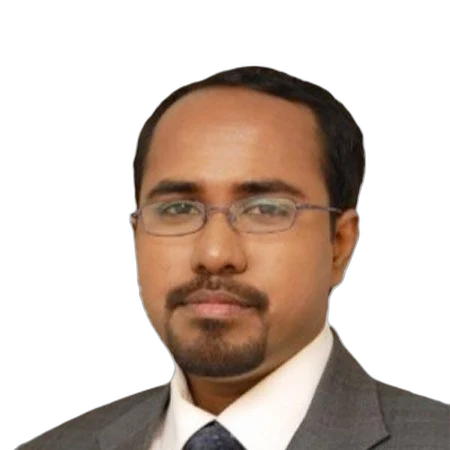
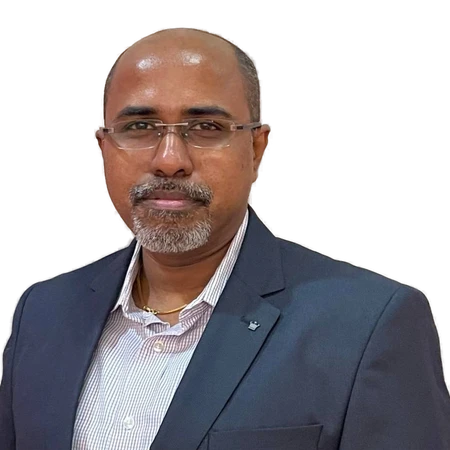
New Reena and Muthu photos; larger, captioned trust badges in the hero
- About: Reena Prabhu and Muthukumaran Elangovan photos replaced, background
  removed and framed to match the other team cards
- Homepage hero 'Enabling Customer Trust': each certificate on its own
  frosted tile with a readable caption (ISO 27001, SOC 2 Type II, HIPAA),
  logos about 40% larger, filling the row; one per row on phones

Claude-Session: https://claude.ai/code/session_01VqiUY1QJkPFqydpKuakwnM

diff --git a/index.html b/index.html
@@ -32,7 +32,7 @@
 <link href="assets/favicon-192.png" rel="icon" type="image/png" sizes="192x192"/>
 <link href="apple-touch-icon.png" rel="apple-touch-icon"/>
 <link href="https://fonts.googleapis.com" rel="preconnect"/><link crossorigin="" href="https://fonts.gstatic.com" rel="preconnect"/>
-<link href="style.css?v=bbcd7076" rel="stylesheet"/>
+<link href="style.css?v=f7a7e5c9" rel="stylesheet"/>
 <script defer="" src="vendor/gsap.min.js"></script>
 <script defer="" src="vendor/ScrollTrigger.min.js"></script>
 <script defer="" src="vendor/lenis.min.js"></script>
@@ -69,7 +69,7 @@
 <div aria-label="Exterprise services" aria-roledescription="carousel" class="lx-row lx-slides"><div aria-label="1 of 6: Exterprise" aria-roledescription="slide" class="lx-slide on" data-i="0" role="group"><div class="lx-hl"><p class="lx-eb"><span>01</span>Exterprise</p><h1 class="lx-h" id="hero-h"><span class="l1">Modernize How</span> <span class="l2">You Work</span></h1></div><div class="lx-side"><p>We pair AI with people who know operations inside out, so the work gets done right and stays secure and compliant.</p><div class="lx-btns"><a class="lx-pill neo lx-pill-white neo-white" href="#matrix">What We Do</a></div></div></div><div aria-hidden="true" aria-label="2 of 6: ServiceNow" aria-roledescription="slide" class="lx-slide" data-i="1" role="group"><div class="lx-hl"><p class="lx-eb"><span>02</span>ServiceNow Premier Partner</p><h2 class="lx-h"><span class="l1">Enterprise Service</span> <span class="l2">Management</span></h2></div><div class="lx-side"><p>Customer Service Management, Field Service Management, IT Service Management, IT Operations Management, Now Platform</p><div class="lx-btns"><a class="lx-pill neo lx-pill-white neo-white" href="servicenow.html">Explore ServiceNow</a></div></div></div><div aria-hidden="true" aria-label="3 of 6: Smartsourcing" aria-roledescription="slide" class="lx-slide" data-i="2" role="group"><div class="lx-hl"><p class="lx-eb"><span>03</span>Smartsourcing &amp; BPO</p><h2 class="lx-h"><span class="l1">Extend Your Enterprise</span> <span class="l2">Globally</span></h2></div><div class="lx-side"><p>Partner with us and extend your enterprise globally, with business services backed by the right technology.</p><div class="lx-btns"><a class="lx-pill neo lx-pill-white neo-white" href="smartsourcing.html">Explore Smartsourcing</a></div></div></div><div aria-hidden="true" aria-label="4 of 6: Government" aria-roledescription="slide" class="lx-slide" data-i="3" role="group"><div class="lx-hl"><p class="lx-eb"><span>04</span>Records Processing</p><h2 class="lx-h"><span class="l1">County Government</span> <span class="l2">Services</span></h2></div><div class="lx-side"><p>Exterprise offers the industry’s most accurate (99.995%) data entry and processing of County Government records.</p><div class="lx-btns"><a class="lx-pill neo lx-pill-white neo-white" href="county-government-services.html">County Government Services</a></div></div></div><div aria-hidden="true" aria-label="5 of 6: Data &amp; AI" aria-roledescription="slide" class="lx-slide" data-i="4" role="group"><div class="lx-hl"><p class="lx-eb"><span>05</span>Custom AI Solutions</p><h2 class="lx-h"><span class="l1">Custom AI</span> <span class="l2">Solutions</span></h2></div><div class="lx-side"><p>AI designed around your business, from ServiceNow AI Agents to image analytics and machine learning on your own data.</p><div class="lx-btns"><a class="lx-pill neo lx-pill-white neo-white" href="custom-ai-solutions.html">Custom AI Solutions</a></div></div></div><div aria-hidden="true" aria-label="6 of 6: Design" aria-roledescription="slide" class="lx-slide" data-i="5" role="group"><div class="lx-hl"><p class="lx-eb"><span>06</span>Digital &amp; Design</p><h2 class="lx-h"><span class="l1">Design, Create</span> <span class="l2">&amp; Innovate</span></h2></div><div class="lx-side"><p>Create and innovate with custom technology solutions &amp; design thinking to solve business problems.</p><div class="lx-btns"><a class="lx-pill neo lx-pill-white neo-white" href="design-services.html">Design Services</a></div></div></div></div><div aria-label="Choose a service" class="lx-nav" role="group"><button aria-label="Show Exterprise" class="lx-dot on" data-i="0" type="button"><span class="lx-dn">01</span><span class="lx-dl">Exterprise</span><span class="lx-dbar"><i></i></span></button><button aria-label="Show ServiceNow" class="lx-dot" data-i="1" type="button"><span class="lx-dn">02</span><span class="lx-dl">ServiceNow</span><span class="lx-dbar"><i></i></span></button><button aria-label="Show Smartsourcing" class="lx-dot" data-i="2" type="button"><span class="lx-dn">03</span><span class="lx-dl">Smartsourcing</span><span class="lx-dbar"><i></i></span></button><button aria-label="Show Government" class="lx-dot" data-i="3" type="button"><span class="lx-dn">04</span><span class="lx-dl">Government</span><span class="lx-dbar"><i></i></span></button><button aria-label="Show Data &amp; AI" class="lx-dot" data-i="4" type="button"><span class="lx-dn">05</span><span class="lx-dl">Data &amp; AI</span><span class="lx-dbar"><i></i></span></button><button aria-label="Show Design" class="lx-dot" data-i="5" type="button"><span class="lx-dn">06</span><span class="lx-dl">Design</span><span class="lx-dbar"><i></i></span></button></div>
 <div class="lx-logos">
 <h2 class="lx-logos-h">Enabling Customer Trust</h2>
-<div class="lx-logos-row"><img alt="Intertek UKAS Management Systems" height="40" src="assets/trust-2-mono.png"/><img alt="SSAE 18 SOC 2 Type II" height="40" src="assets/trust-3-mono.png"/><img alt="HIPAA Compliance" height="40" src="assets/trust-4-mono.png"/></div>
+<div class="lx-logos-row"><figure class="lx-cert"><img alt="Intertek UKAS Management Systems" height="40" src="assets/trust-2-mono.png"/><figcaption>ISO 27001 · Intertek UKAS</figcaption></figure><figure class="lx-cert"><img alt="SSAE 18 SOC 2 Type II" height="40" src="assets/trust-3-mono.png"/><figcaption>SSAE 18 SOC 2 Type II</figcaption></figure><figure class="lx-cert"><img alt="HIPAA Compliance" height="40" src="assets/trust-4-mono.png"/><figcaption>HIPAA Compliant</figcaption></figure></div>
 <a class="lx-scroll" href="#matrix"><span class="sr-only">Scroll to know more</span><span aria-hidden="true">↓</span></a>
 </div>
 </div>

diff --git a/style.css b/style.css
@@ -4120,3 +4120,18 @@ html body .np-prog p{flex:1}
 /* v84.1 */
 .np-act{white-space:nowrap}
 @media (max-width:600px){.np-acts{gap:6px}.np-act{padding:8px 11px;font-size:13px;gap:5px}.np-act.np-more{padding:8px 9px}}
+
+/* >>> v85 Hero "Enabling Customer Trust": bigger certificate badges on tiles, with captions */
+html body .lx-hero .lx-logos-row{display:grid!important;grid-template-columns:repeat(3,minmax(0,1fr));gap:14px;justify-content:stretch}
+html body .lx-hero .lx-cert{margin:0;display:flex;align-items:center;gap:16px;padding:14px 18px;border-radius:18px;
+  background:rgba(24,24,30,.5);-webkit-backdrop-filter:blur(18px);backdrop-filter:blur(18px);box-shadow:inset 0 0 0 1px rgba(255,255,255,.12)}
+html body .lx-hero .lx-logos-row .lx-cert img{flex:none;height:66px!important;width:auto!important;max-width:110px!important;padding:0!important;background:none!important;box-shadow:none!important;border-radius:0!important;opacity:1!important;object-fit:contain}
+html body .lx-hero .lx-cert figcaption{font-size:15px;font-weight:600;line-height:1.3;color:#fff}
+html body .lx-hero .lx-logos-h{font-size:15px!important;max-width:130px}
+@media (max-width:1000px){
+  html body .lx-hero .lx-logos-row{grid-template-columns:minmax(0,1fr)!important;gap:10px}
+  html body .lx-hero .lx-cert{padding:12px 16px}
+  html body .lx-hero .lx-logos-row .lx-cert img{height:56px!important;max-width:96px!important}
+}
+@media (min-width:701px) and (max-width:1000px){html body .lx-hero .lx-logos-row{grid-template-columns:repeat(3,minmax(0,1fr))!important}}
+/* <<< v85 */

diff --git a/about.html b/about.html
@@ -32,7 +32,7 @@
 <link href="assets/favicon-192.png" rel="icon" type="image/png" sizes="192x192"/>
 <link href="apple-touch-icon.png" rel="apple-touch-icon"/>
 <link href="https://fonts.googleapis.com" rel="preconnect"/><link crossorigin="" href="https://fonts.gstatic.com" rel="preconnect"/>
-<link href="style.css?v=bbcd7076" rel="stylesheet"/>
+<link href="style.css?v=f7a7e5c9" rel="stylesheet"/>
 <script defer="" src="vendor/gsap.min.js"></script>
 <script defer="" src="vendor/ScrollTrigger.min.js"></script>
 <script defer="" src="vendor/lenis.min.js"></script>

diff --git a/ai-agents-now-assist.html b/ai-agents-now-assist.html
@@ -32,7 +32,7 @@
 <link href="assets/favicon-192.png" rel="icon" type="image/png" sizes="192x192"/>
 <link href="apple-touch-icon.png" rel="apple-touch-icon"/>
 <link href="https://fonts.googleapis.com" rel="preconnect"/><link crossorigin="" href="https://fonts.gstatic.com" rel="preconnect"/>
-<link href="style.css?v=bbcd7076" rel="stylesheet"/>
+<link href="style.css?v=f7a7e5c9" rel="stylesheet"/>
 <script defer="" src="vendor/gsap.min.js"></script>
 <script defer="" src="vendor/ScrollTrigger.min.js"></script>
 <script defer="" src="vendor/lenis.min.js"></script>

diff --git a/ai-control-tower.html b/ai-control-tower.html
@@ -32,7 +32,7 @@
 <link href="assets/favicon-192.png" rel="icon" type="image/png" sizes="192x192"/>
 <link href="apple-touch-icon.png" rel="apple-touch-icon"/>
 <link href="https://fonts.googleapis.com" rel="preconnect"/><link crossorigin="" href="https://fonts.gstatic.com" rel="preconnect"/>
-<link href="style.css?v=bbcd7076" rel="stylesheet"/>
+<link href="style.css?v=f7a7e5c9" rel="stylesheet"/>
 <script defer="" src="vendor/gsap.min.js"></script>
 <script defer="" src="vendor/ScrollTrigger.min.js"></script>
 <script defer="" src="vendor/lenis.min.js"></script>

diff --git a/ai-image-analytics.html b/ai-image-analytics.html
@@ -32,7 +32,7 @@
 <link href="assets/favicon-192.png" rel="icon" type="image/png" sizes="192x192"/>
 <link href="apple-touch-icon.png" rel="apple-touch-icon"/>
 <link href="https://fonts.googleapis.com" rel="preconnect"/><link crossorigin="" href="https://fonts.gstatic.com" rel="preconnect"/>
-<link href="style.css?v=bbcd7076" rel="stylesheet"/>
+<link href="style.css?v=f7a7e5c9" rel="stylesheet"/>
 <script defer="" src="vendor/gsap.min.js"></script>
 <script defer="" src="vendor/ScrollTrigger.min.js"></script>
 <script defer="" src="vendor/lenis.min.js"></script>

diff --git a/application-development.html b/application-development.html
@@ -32,7 +32,7 @@
 <link href="assets/favicon-192.png" rel="icon" type="image/png" sizes="192x192"/>
 <link href="apple-touch-icon.png" rel="apple-touch-icon"/>
 <link href="https://fonts.googleapis.com" rel="preconnect"/><link crossorigin="" href="https://fonts.gstatic.com" rel="preconnect"/>
-<link href="style.css?v=bbcd7076" rel="stylesheet"/>
+<link href="style.css?v=f7a7e5c9" rel="stylesheet"/>
 <script defer="" src="vendor/gsap.min.js"></script>
 <script defer="" src="vendor/ScrollTrigger.min.js"></script>
 <script defer="" src="vendor/lenis.min.js"></script>

diff --git a/cmdb-data-foundations.html b/cmdb-data-foundations.html
@@ -32,7 +32,7 @@
 <link href="assets/favicon-192.png" rel="icon" type="image/png" sizes="192x192"/>
 <link href="apple-touch-icon.png" rel="apple-touch-icon"/>
 <link href="https://fonts.googleapis.com" rel="preconnect"/><link crossorigin="" href="https://fonts.gstatic.com" rel="preconnect"/>
-<link href="style.css?v=bbcd7076" rel="stylesheet"/>
+<link href="style.css?v=f7a7e5c9" rel="stylesheet"/>
 <script defer="" src="vendor/gsap.min.js"></script>
 <script defer="" src="vendor/ScrollTrigger.min.js"></script>
 <script defer="" src="vendor/lenis.min.js"></script>

diff --git a/contact-center.html b/contact-center.html
@@ -32,7 +32,7 @@
 <link href="assets/favicon-192.png" rel="icon" type="image/png" sizes="192x192"/>
 <link href="apple-touch-icon.png" rel="apple-touch-icon"/>
 <link href="https://fonts.googleapis.com" rel="preconnect"/><link crossorigin="" href="https://fonts.gstatic.com" rel="preconnect"/>
-<link href="style.css?v=bbcd7076" rel="stylesheet"/>
+<link href="style.css?v=f7a7e5c9" rel="stylesheet"/>
 <script defer="" src="vendor/gsap.min.js"></script>
 <script defer="" src="vendor/ScrollTrigger.min.js"></script>
 <script defer="" src="vendor/lenis.min.js"></script>

diff --git a/contact.html b/contact.html
@@ -32,7 +32,7 @@
 <link href="assets/favicon-192.png" rel="icon" type="image/png" sizes="192x192"/>
 <link href="apple-touch-icon.png" rel="apple-touch-icon"/>
 <link href="https://fonts.googleapis.com" rel="preconnect"/><link crossorigin="" href="https://fonts.gstatic.com" rel="preconnect"/>
-<link href="style.css?v=bbcd7076" rel="stylesheet"/>
+<link href="style.css?v=f7a7e5c9" rel="stylesheet"/>
 <script defer="" src="vendor/gsap.min.js"></script>
 <script defer="" src="vendor/ScrollTrigger.min.js"></script>
 <script defer="" src="vendor/lenis.min.js"></script>

diff --git a/county-government-services.html b/county-government-services.html
@@ -32,7 +32,7 @@
 <link href="assets/favicon-192.png" rel="icon" type="image/png" sizes="192x192"/>
 <link href="apple-touch-icon.png" rel="apple-touch-icon"/>
 <link href="https://fonts.googleapis.com" rel="preconnect"/><link crossorigin="" href="https://fonts.gstatic.com" rel="preconnect"/>
-<link href="style.css?v=bbcd7076" rel="stylesheet"/>
+<link href="style.css?v=f7a7e5c9" rel="stylesheet"/>
 <script defer="" src="vendor/gsap.min.js"></script>
 <script defer="" src="vendor/ScrollTrigger.min.js"></script>
 <script defer="" src="vendor/lenis.min.js"></script>

diff --git a/custom-ai-solutions.html b/custom-ai-solutions.html
@@ -32,7 +32,7 @@
 <link href="assets/favicon-192.png" rel="icon" type="image/png" sizes="192x192"/>
 <link href="apple-touch-icon.png" rel="apple-touch-icon"/>
 <link href="https://fonts.googleapis.com" rel="preconnect"/><link crossorigin="" href="https://fonts.gstatic.com" rel="preconnect"/>
-<link href="style.css?v=bbcd7076" rel="stylesheet"/>
+<link href="style.css?v=f7a7e5c9" rel="stylesheet"/>
 <script defer="" src="vendor/gsap.min.js"></script>
 <script defer="" src="vendor/ScrollTrigger.min.js"></script>
 <script defer="" src="vendor/lenis.min.js"></script>
